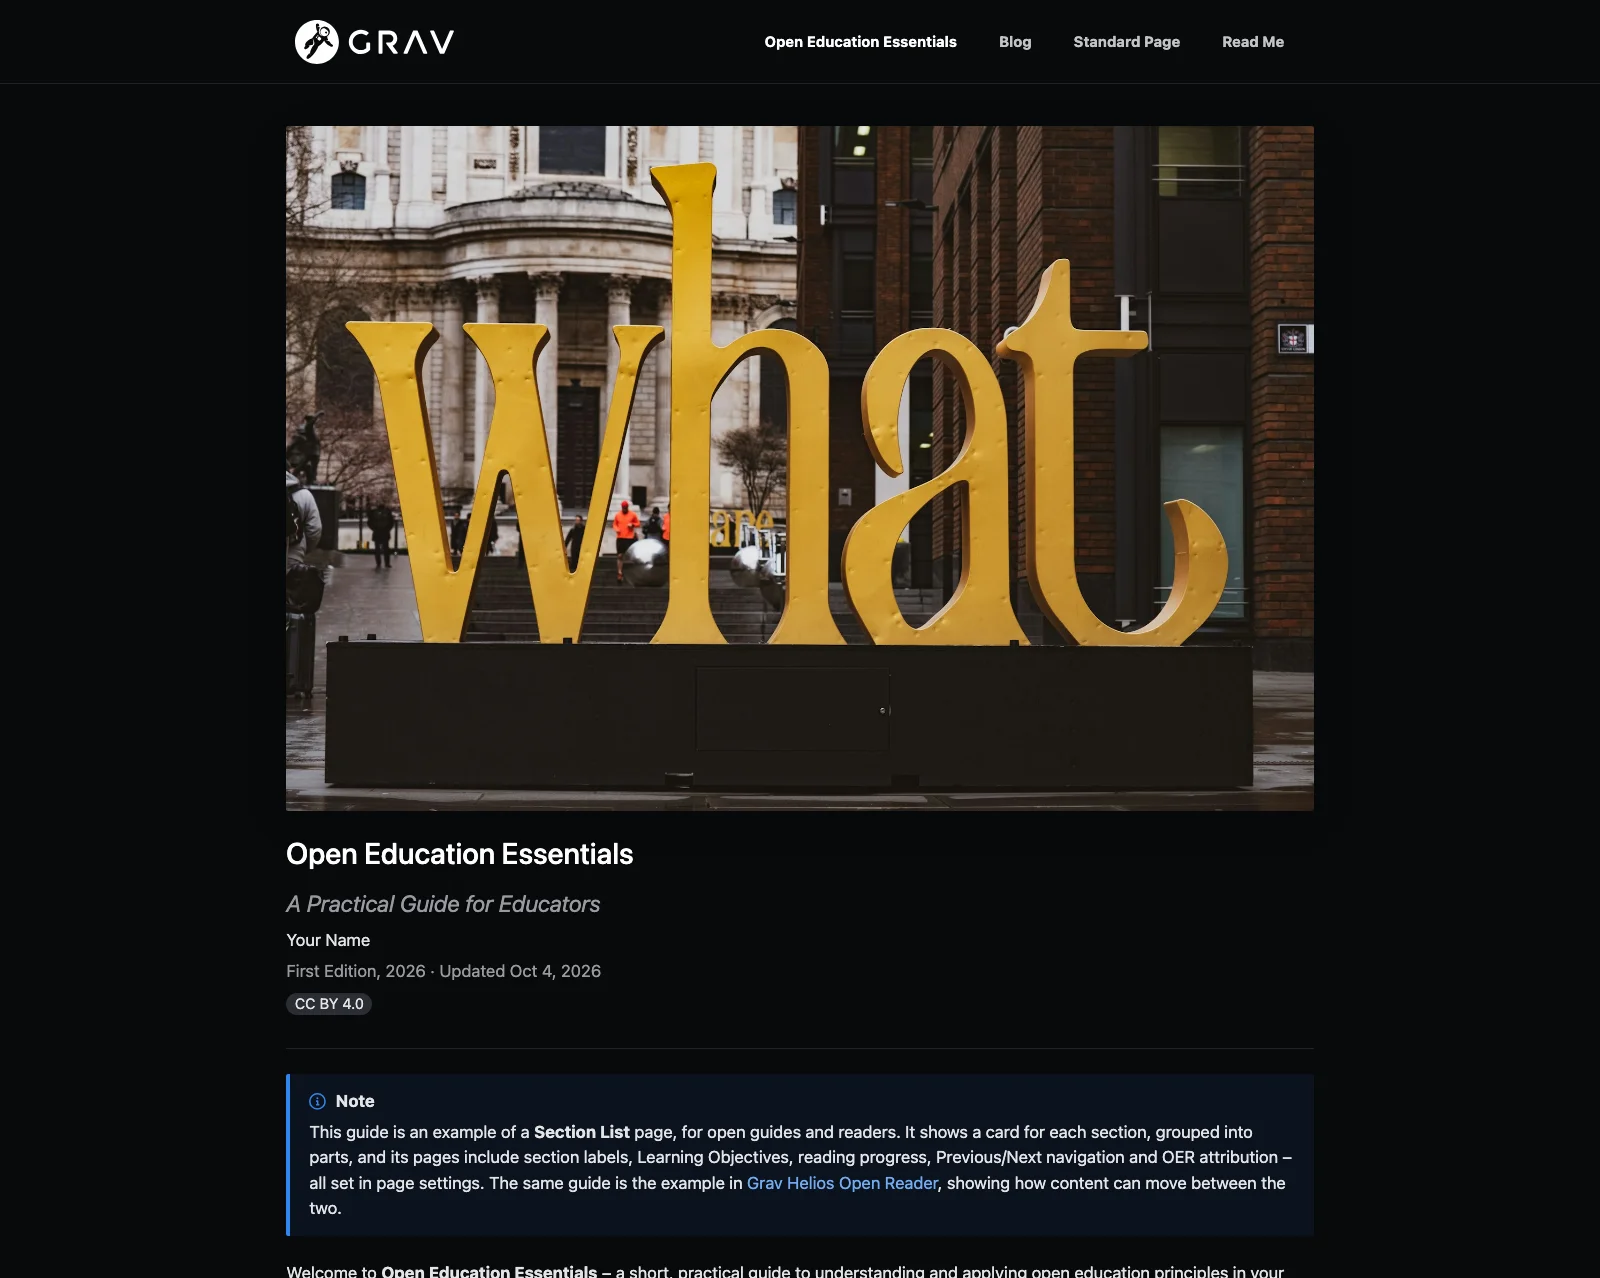
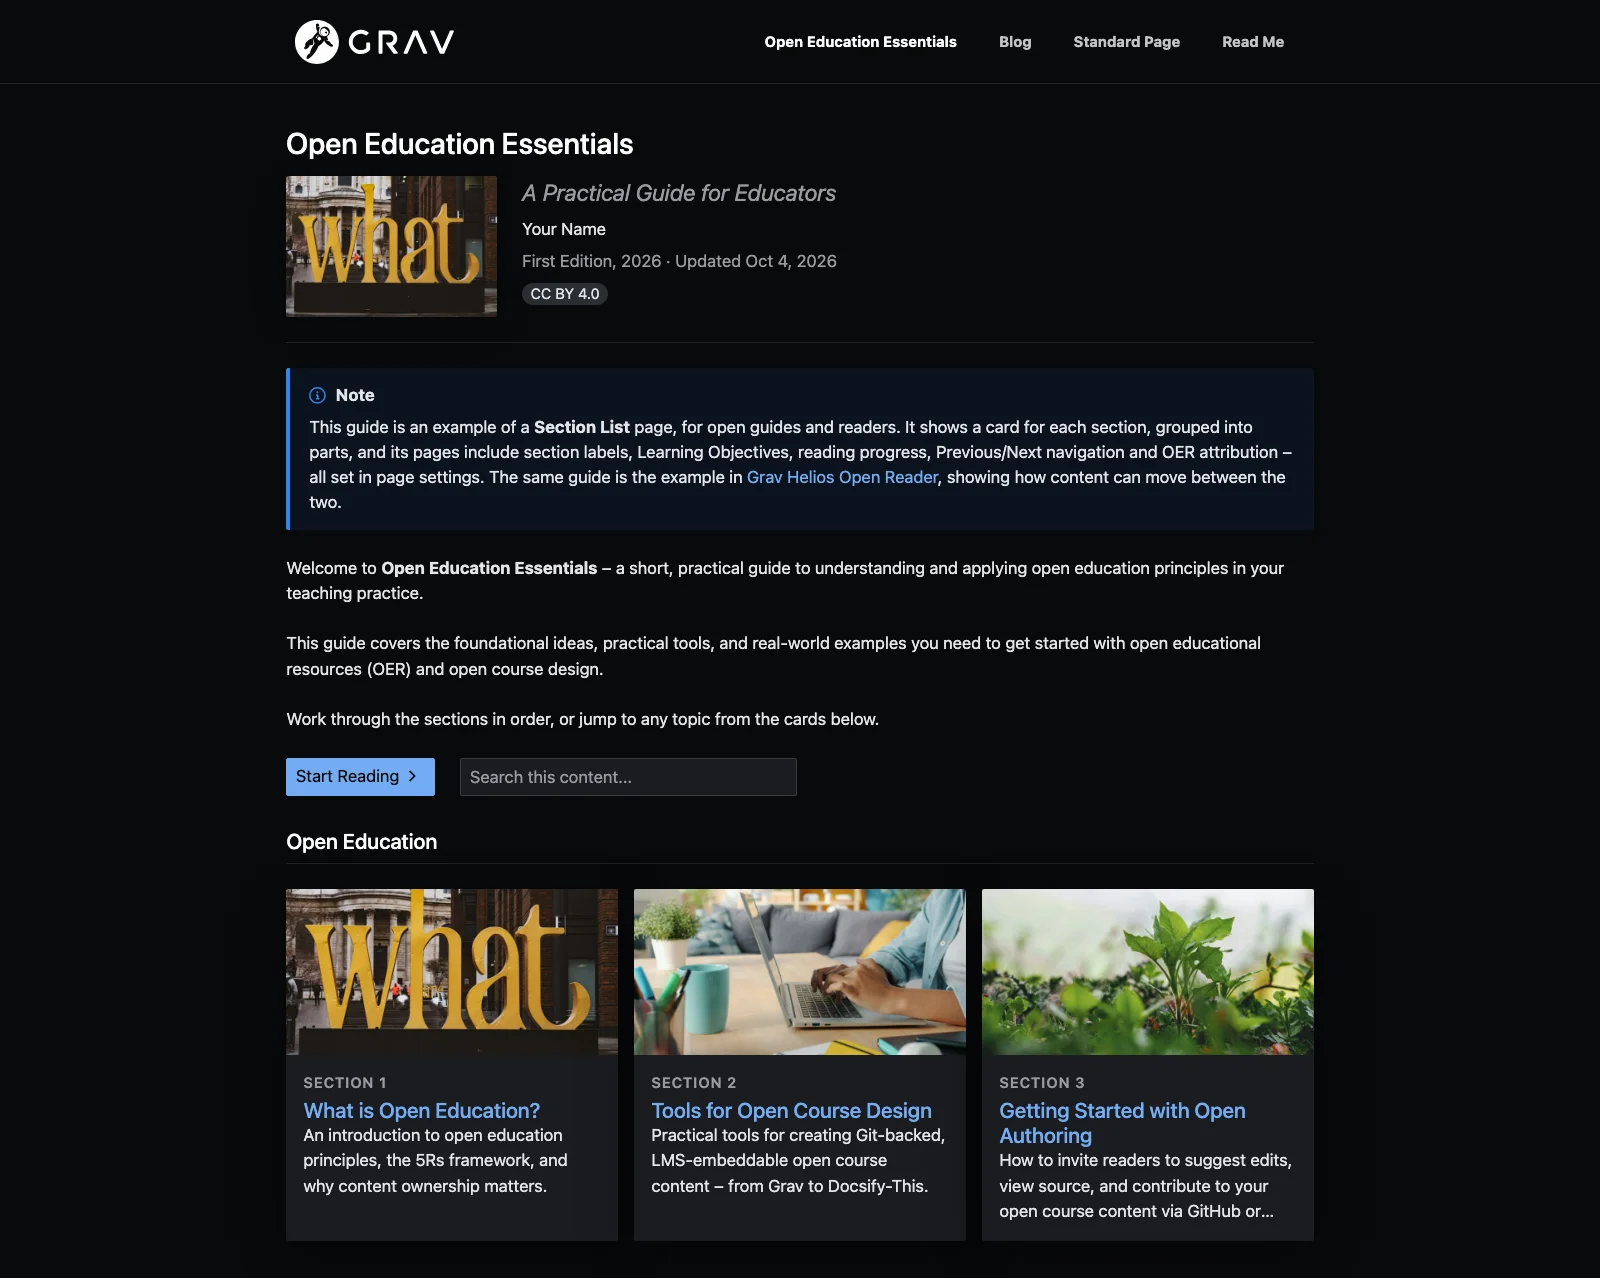
Use a small guide cover and refresh the homepage screenshots.

diff --git a/README.md b/README.md
@@ -12,7 +12,7 @@
 
 <p>A free, open-source package built on <a href="https://getgrav.org">Grav CMS</a> and the <a href="https://github.com/hibbitts-design/grav-theme-quark-open-publishing">Quark Open Publishing</a> theme, with Markdown file-based content, a built-in Admin panel, and no database required.</p>
 
-<a href="https://raw.githubusercontent.com/hibbitts-design/grav-skeleton-open-publishing-space/refs/heads/master/screenshots/screenshot.webp"><picture><source media="(prefers-color-scheme: dark)" srcset="https://raw.githubusercontent.com/hibbitts-design/grav-skeleton-open-publishing-space/refs/heads/master/screenshots/screenshot-dark.webp"><img alt="Open Education Essentials guide homepage with a cover image, guide details, and a note" src="https://raw.githubusercontent.com/hibbitts-design/grav-skeleton-open-publishing-space/refs/heads/master/screenshots/screenshot.webp" width="49%"></picture></a> <a href="https://raw.githubusercontent.com/hibbitts-design/grav-skeleton-open-publishing-space/refs/heads/master/screenshots/screenshot-2.webp"><picture><source media="(prefers-color-scheme: dark)" srcset="https://raw.githubusercontent.com/hibbitts-design/grav-skeleton-open-publishing-space/refs/heads/master/screenshots/screenshot-2-dark.webp"><img alt="Guide section page with Learning Objectives, section navigation in the sidebar, and Previous and Next links" src="https://raw.githubusercontent.com/hibbitts-design/grav-skeleton-open-publishing-space/refs/heads/master/screenshots/screenshot-2.webp" width="49%"></picture></a><br>
+<a href="https://raw.githubusercontent.com/hibbitts-design/grav-skeleton-open-publishing-space/refs/heads/master/screenshots/screenshot.webp"><picture><source media="(prefers-color-scheme: dark)" srcset="https://raw.githubusercontent.com/hibbitts-design/grav-skeleton-open-publishing-space/refs/heads/master/screenshots/screenshot-dark.webp"><img alt="Open Education Essentials guide homepage with a cover image, guide details, a note, and section cards" src="https://raw.githubusercontent.com/hibbitts-design/grav-skeleton-open-publishing-space/refs/heads/master/screenshots/screenshot.webp" width="49%"></picture></a> <a href="https://raw.githubusercontent.com/hibbitts-design/grav-skeleton-open-publishing-space/refs/heads/master/screenshots/screenshot-2.webp"><picture><source media="(prefers-color-scheme: dark)" srcset="https://raw.githubusercontent.com/hibbitts-design/grav-skeleton-open-publishing-space/refs/heads/master/screenshots/screenshot-2-dark.webp"><img alt="Guide section page with Learning Objectives, section navigation in the sidebar, and Previous and Next links" src="https://raw.githubusercontent.com/hibbitts-design/grav-skeleton-open-publishing-space/refs/heads/master/screenshots/screenshot-2.webp" width="49%"></picture></a><br>
 <a href="https://raw.githubusercontent.com/hibbitts-design/grav-skeleton-open-publishing-space/refs/heads/master/screenshots/screenshot-3.webp"><picture><source media="(prefers-color-scheme: dark)" srcset="https://raw.githubusercontent.com/hibbitts-design/grav-skeleton-open-publishing-space/refs/heads/master/screenshots/screenshot-3-dark.webp"><img alt="Open Publishing Space blog with a mountain hero image, blog post cards, and a sidebar with tags and archives" src="https://raw.githubusercontent.com/hibbitts-design/grav-skeleton-open-publishing-space/refs/heads/master/screenshots/screenshot-3.webp" width="49%"></picture></a> <a href="https://raw.githubusercontent.com/hibbitts-design/grav-skeleton-open-publishing-space/refs/heads/master/screenshots/screenshot-4.webp"><picture><source media="(prefers-color-scheme: dark)" srcset="https://raw.githubusercontent.com/hibbitts-design/grav-skeleton-open-publishing-space/refs/heads/master/screenshots/screenshot-4-dark.webp"><img alt="Blog post with a typography hero image, a notice, headings, and a sidebar with related posts and tags" src="https://raw.githubusercontent.com/hibbitts-design/grav-skeleton-open-publishing-space/refs/heads/master/screenshots/screenshot-4.webp" width="49%"></picture></a>
 
 <p>Open Publishing Space – Guide homepage and section page (top), blog and blog post (bottom)</p>
